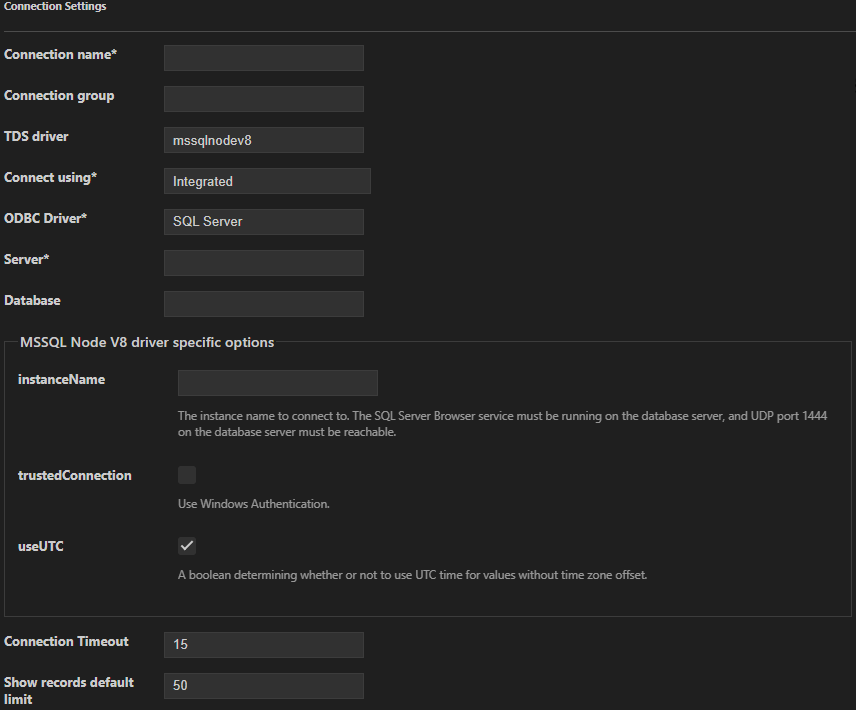
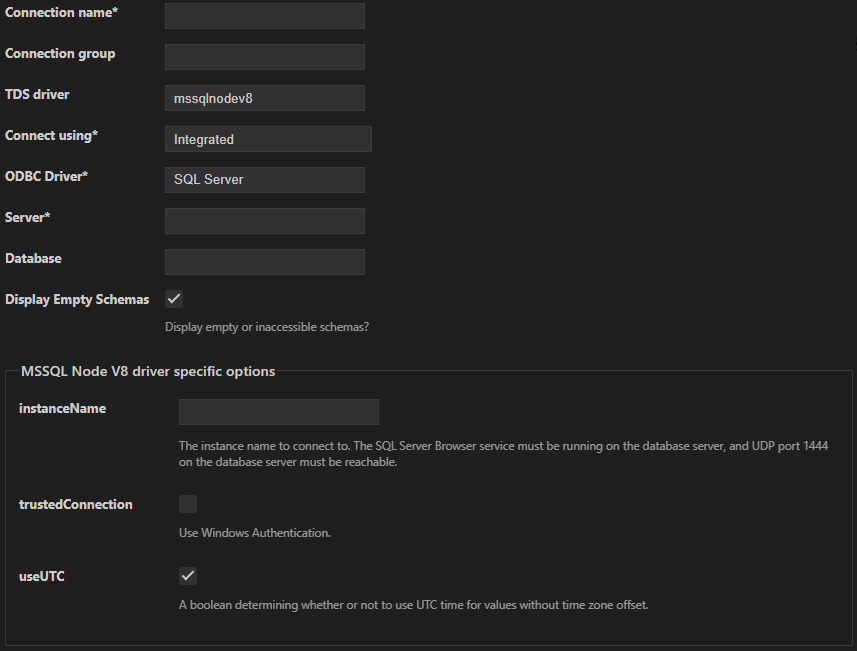
Prepare Release 0.5.1

diff --git a/README.md b/README.md
@@ -13,12 +13,15 @@ MS Node SQL v8 settings page
 
 ## Changelog
 
+### 0.5.1
+- Resolved GetChildrenForTreeItemRequest failed error when user accesses inaccessible schema. 
+- Add option to display empty schema.
+
 ### 0.5.0
 - Add msnodesqlv8 driver
     - This adds Integrated (windows auth) as a connection method.
 - Add trustServerCertificate option in tedious driver.
-- Intellisense and sidepanel now works when you have multiple databases (check queries.ts).
-    - Intellisense for databases.
+- Intellisense for databases.
 - Set default connection timeout to be the same as the tedious driver (15000 ms)
 - Note: msnodesqlv8 is only available on 64-bit versions of linux, windows, and macos. Hence this extension only works on these platforms. 
 
